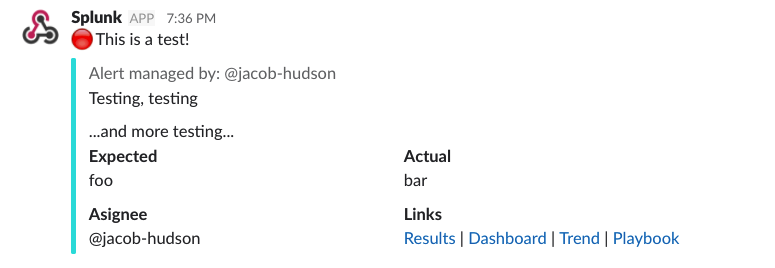
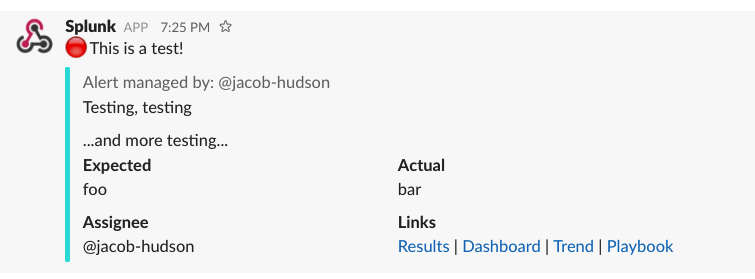
typo

diff --git a/sai/default/data/ui/alerts/sai.html b/sai/default/data/ui/alerts/sai.html
@@ -74,9 +74,9 @@
     </div>
   </div>
   <div class="control-group">
-    <label class="control-label" for="slack_actual">Asignee</label>
+    <label class="control-label" for="slack_assignee">Assignee</label>
     <div class="controls">
-      <input type="text" name="action.sai.param.asignee" id="slack_asignee"/>
+      <input type="text" name="action.sai.param.assignee" id="slack_assignee"/>
       <span class="help-block">Contact responsible for fixing the issue</span>
     </div>
   </div>

diff --git a/sai/bin/sai.py b/sai/bin/sai.py
@@ -22,7 +22,7 @@ def screenshot():
 def format_fields(settings):
     f1 = {'title': "Expected",'value': settings.get('expected'),'short': True}
     f2 = {'title': "Actual",'value': settings.get('actual'),'short': True}
-    f3 = {'title': "Asignee",'value': settings.get('asignee'),'short': True}
+    f3 = {'title': "Assignee",'value': settings.get('asignee'),'short': True}
 
     links = []
     all_links = ""

diff --git a/README.md b/README.md
@@ -22,7 +22,7 @@ Includes:
 - Run `./build/build.sh`
 
 ## Install
-- `Install From File`in App Settings (App is not on SplunkBase yet)
+- `Install From File` in App Settings (App is not on SplunkBase yet)
 - NOTE:  A restart is *not* needed after installing or upgrading this app
 
 ## Example Output
